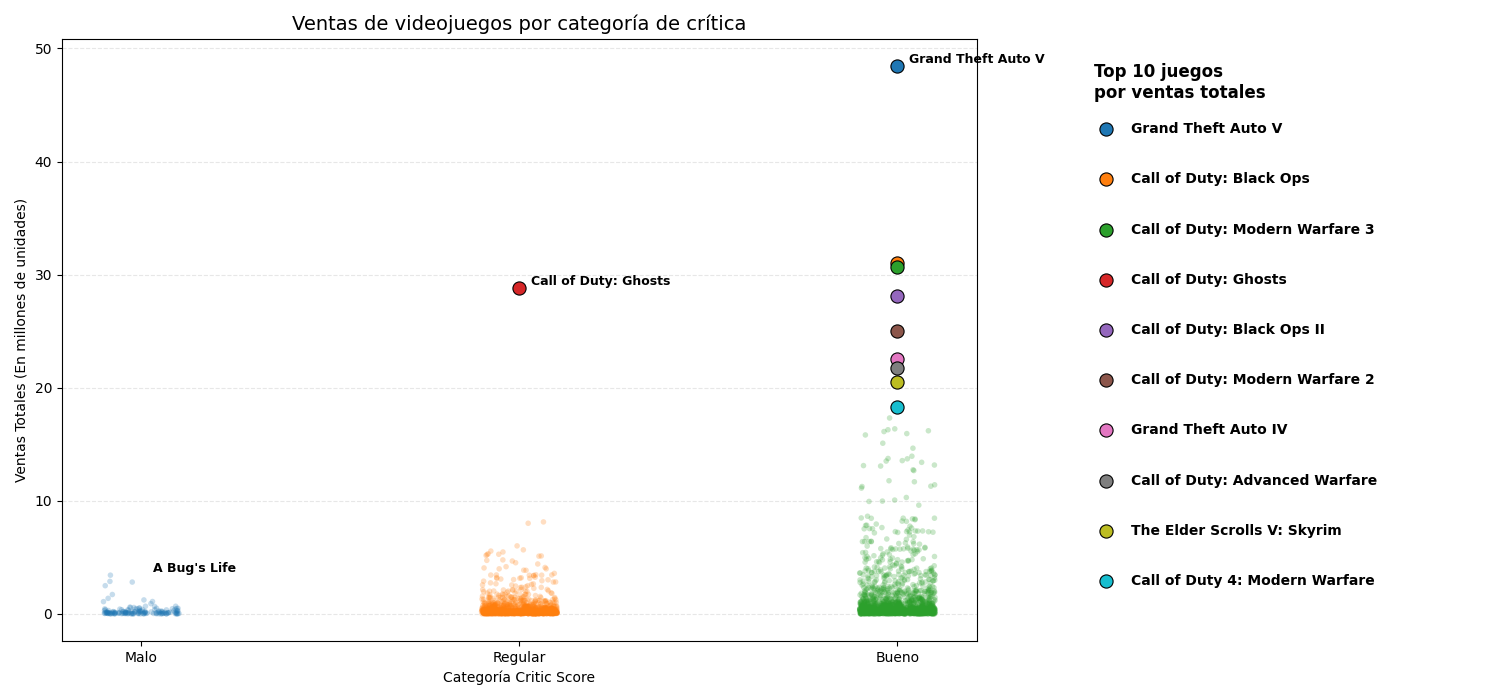
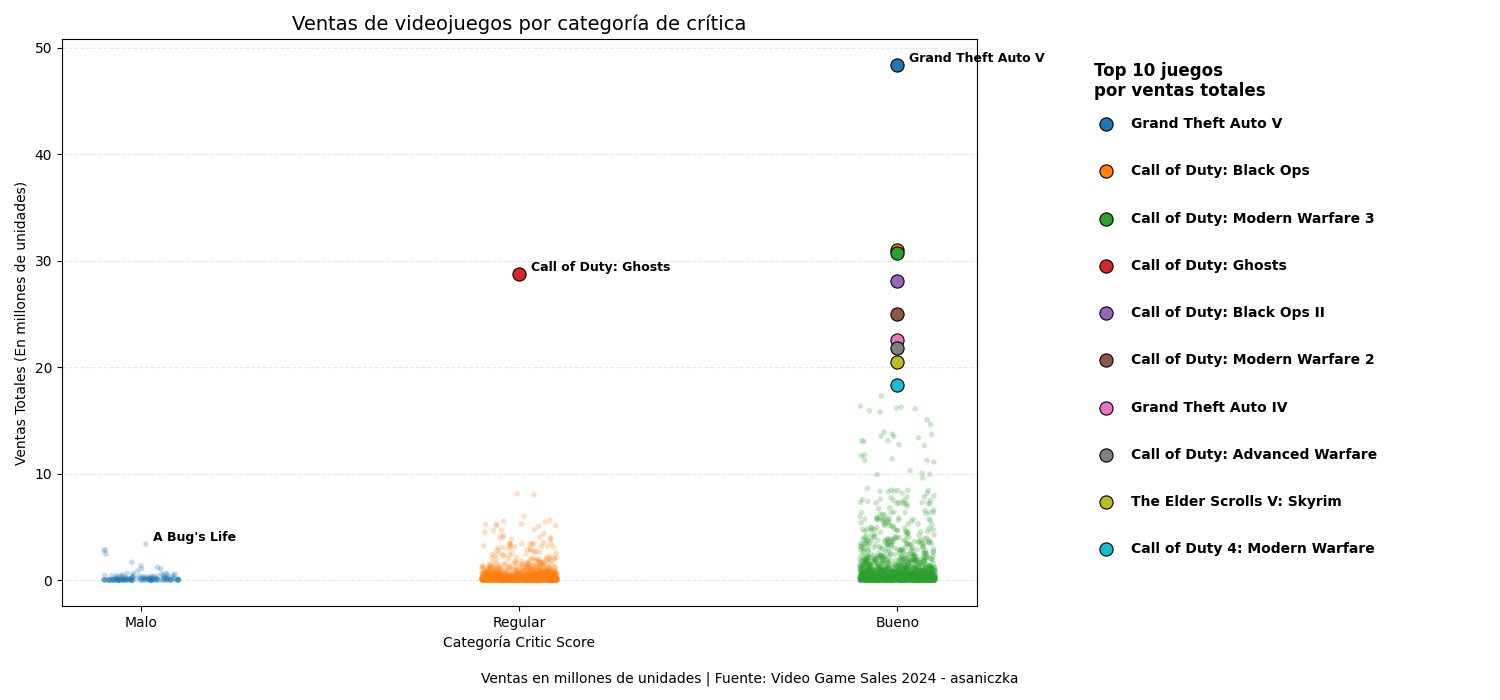
Agregada fuente abajo de la imagen

diff --git a/Tarea-1/Codigos/MBHF/visualizacion.py b/Tarea-1/Codigos/MBHF/visualizacion.py
@@ -127,5 +127,13 @@ for (_, row), y in zip(top10.iterrows(), y_positions):
         va='center'
     )
 
-plt.tight_layout()
+fig.text(
+    0.5, 0.02,
+    'Ventas en millones de unidades | Fuente: Video Game Sales 2024 - asaniczka',
+    ha='center',
+    va='bottom',
+    fontsize=10
+)
+
+plt.tight_layout(rect=[0, 0.05, 1, 1])
 plt.show()
